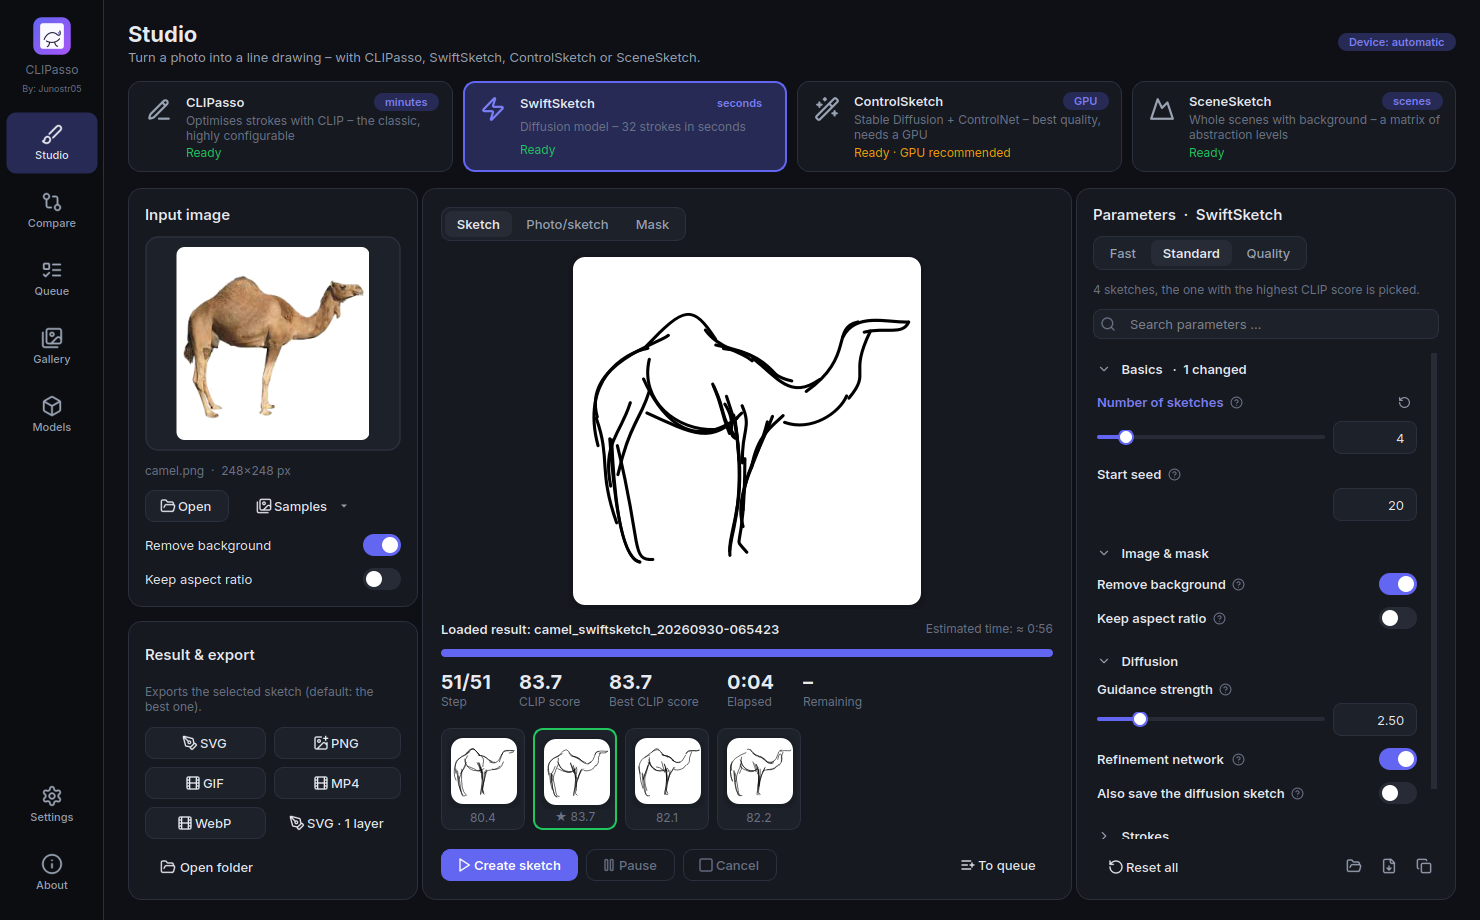
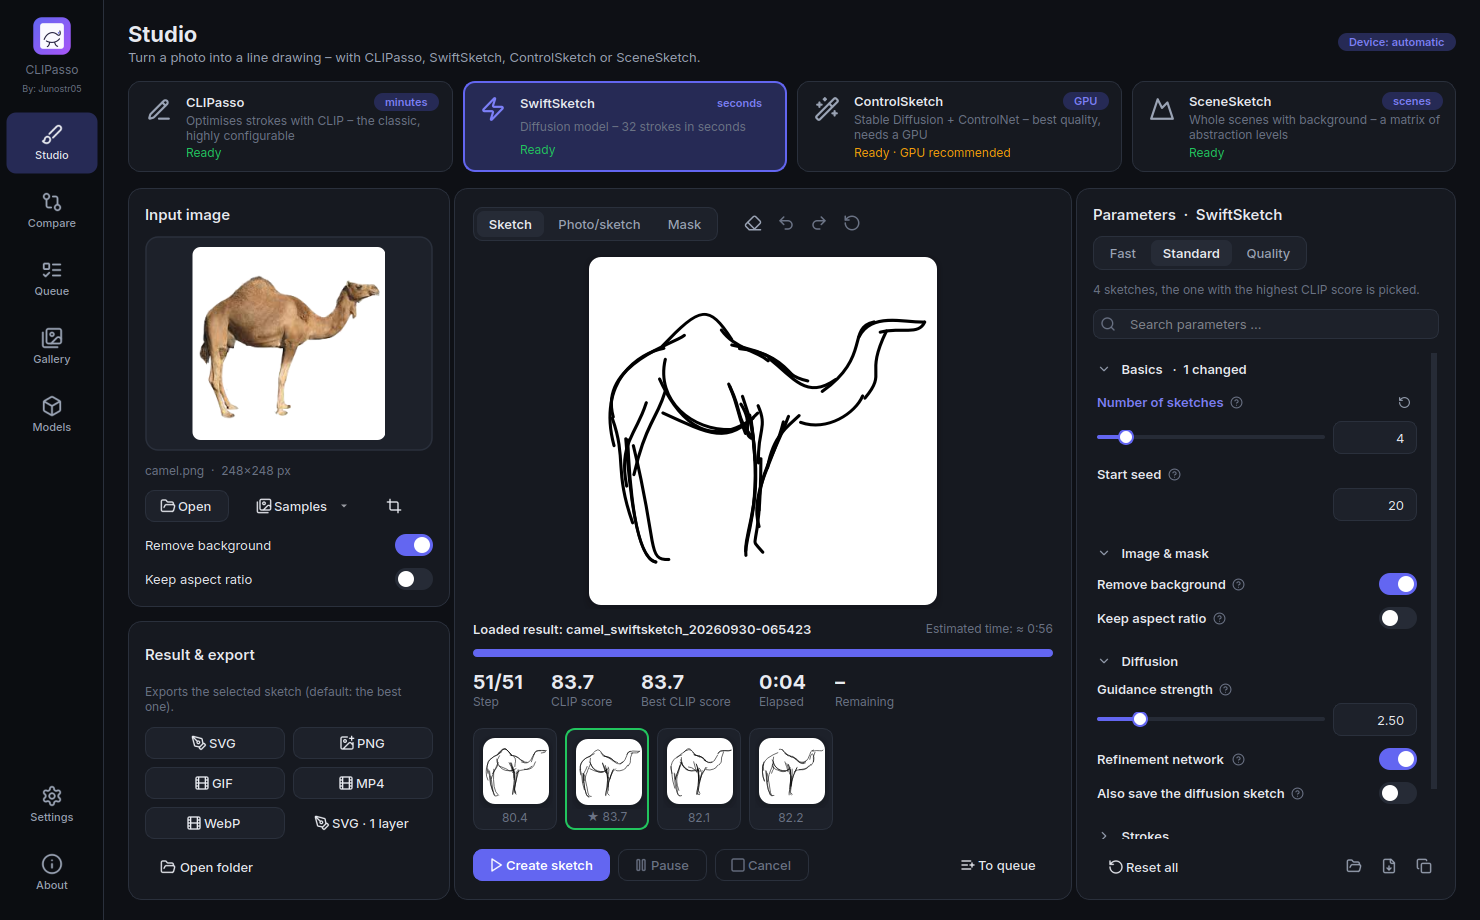
Release 2.3.0
Version 2.3.0, release notes, README features and screenshots. The studio's
left column now widens to fit its content plus the scroll bar (the Edit button
is icon-only), and the test fixtures undo their app-data environment so later
tests use the real model folders again.

Claude-Session: https://claude.ai/code/session_01S7pgJpBq7v1cwD5D27gajo

diff --git a/clipasso_studio/gui/pages/studio.py b/clipasso_studio/gui/pages/studio.py
@@ -8,7 +8,7 @@ import os
 import sys
 import time
 
-from PySide6.QtCore import QSize, Qt, QUrl, Signal
+from PySide6.QtCore import QSize, Qt, QTimer, QUrl, Signal
 from PySide6.QtGui import QDesktopServices, QGuiApplication, QImage, QPixmap
 from PySide6.QtWidgets import (QFileDialog, QFrame, QGridLayout, QHBoxLayout, QMenu, QMessageBox, QProgressBar,
                                QScrollArea, QSplitter, QVBoxLayout, QWidget)
@@ -178,6 +178,7 @@ class StudioPage(QWidget):
         left_scroll.setWidget(left)
         left_scroll.setMinimumWidth(260)
         left_scroll.setMaximumWidth(370)
+        self.left_pane, self.left_scroll = left, left_scroll
         splitter.addWidget(left_scroll)
 
         # ----------------------------------------------------------- center pane
@@ -1047,6 +1048,17 @@ class StudioPage(QWidget):
         self.folder_btn.setEnabled(bool(self.view_dir) or bool(app_settings().get("output_dir")))
         self.result_hint.setText(tr("ui.result_hint_ready") if has_result else tr("ui.result_hint_empty"))
 
+    def showEvent(self, e):  # noqa: N802
+        super().showEvent(e)
+        QTimer.singleShot(0, self._fit_left_column)  # sizes are known once the page is styled and shown
+
+    def _fit_left_column(self):
+        """The left column is at least as wide as its content plus a vertical scroll bar – otherwise
+        the scroll bar (the column is taller than small windows) cuts off its right edge."""
+        need = self.left_pane.minimumSizeHint().width() + self.left_scroll.verticalScrollBar().sizeHint().width() + 4
+        self.left_scroll.setMinimumWidth(max(260, need))
+        self.left_scroll.setMaximumWidth(max(370, need))
+
     def retranslate(self):
         self.eraser_btn.setToolTip(tr("ui.eraser.tip"))
         self.undo_btn.setToolTip(tr("ui.eraser.undo"))
@@ -1062,8 +1074,7 @@ class StudioPage(QWidget):
         self.drop.update()
         self.open_btn.setText(tr("ui.open"))
         self.samples_btn.setText(tr("ui.samples"))
-        self.edit_btn.setText(tr("ui.edit_image.button"))
-        self.edit_btn.setToolTip(tr("ui.edit_image.tip"))
+        self.edit_btn.setToolTip(tr("ui.edit_image.tip"))  # icon only: the row must fit the narrow column
         for key, (lbl, _) in self.quick.items():
             lbl.setText(tr(f"param.{key}.label"))
             lbl.setToolTip(tr(f"param.{key}.help"))
@@ -1085,6 +1096,7 @@ class StudioPage(QWidget):
         self.picker.retranslate()
         self.picker.refresh_status(self.params.all_settings())
         self._set_view_method(self.view_method)
+        self._fit_left_column()
         self.stat_time.caption.setText(tr("ui.stat.elapsed"))
         self.stat_eta.caption.setText(tr("ui.stat.eta"))
         self.cancel_btn.setText(tr("ui.cancel"))

diff --git a/tests/test_dialogs.py b/tests/test_dialogs.py
@@ -15,8 +15,9 @@ SVG = ('<svg xmlns="http://www.w3.org/2000/svg" width="224" height="224" viewBox
 @pytest.fixture(scope="module")
 def qapp(tmp_path_factory):
     tmp = tmp_path_factory.mktemp("appdata")
-    os.environ["XDG_DATA_HOME"] = str(tmp)
-    os.environ["LOCALAPPDATA"] = str(tmp)
+    env = pytest.MonkeyPatch()  # undone after the module: later tests use the real model folders
+    env.setenv("XDG_DATA_HOME", str(tmp))
+    env.setenv("LOCALAPPDATA", str(tmp))
     from PySide6.QtWidgets import QApplication
 
     app = QApplication.instance() or QApplication([])
@@ -24,6 +25,7 @@ def qapp(tmp_path_factory):
     from clipasso_studio.gui import dialogs
 
     dialogs.wait_for_threads()
+    env.undo()
 
 
 def _wait(app, condition, timeout=30.0):

diff --git a/tests/test_batch.py b/tests/test_batch.py
@@ -15,8 +15,9 @@ SVG = ('<svg xmlns="http://www.w3.org/2000/svg" width="224" height="224" viewBox
 @pytest.fixture(scope="module")
 def window(tmp_path_factory):
     tmp = tmp_path_factory.mktemp("appdata")
-    os.environ["XDG_DATA_HOME"] = str(tmp)
-    os.environ["LOCALAPPDATA"] = str(tmp)
+    env = pytest.MonkeyPatch()  # undone after the module: later tests use the real model folders
+    env.setenv("XDG_DATA_HOME", str(tmp))
+    env.setenv("LOCALAPPDATA", str(tmp))
     from PySide6.QtWidgets import QApplication
 
     app = QApplication.instance() or QApplication([])
@@ -35,6 +36,7 @@ def window(tmp_path_factory):
     yield w
     w.controller.shutdown()
     w.close()
+    env.undo()
 
 
 def _job(out, name, method="swiftsketch", edited=False):

diff --git a/tests/test_image_edit.py b/tests/test_image_edit.py
@@ -10,8 +10,9 @@ os.environ.setdefault("QT_QPA_PLATFORM", "offscreen")
 @pytest.fixture(scope="module")
 def qapp(tmp_path_factory):
     tmp = tmp_path_factory.mktemp("appdata")
-    os.environ["XDG_DATA_HOME"] = str(tmp)
-    os.environ["LOCALAPPDATA"] = str(tmp)
+    env = pytest.MonkeyPatch()  # undone after the module: later tests use the real model folders
+    env.setenv("XDG_DATA_HOME", str(tmp))
+    env.setenv("LOCALAPPDATA", str(tmp))
     from PySide6.QtWidgets import QApplication
 
     app = QApplication.instance() or QApplication([])
@@ -20,7 +21,8 @@ def qapp(tmp_path_factory):
 
     settings_module._instance = None
     app_settings().data["output_dir"] = str(tmp / "out")
-    return app
+    yield app
+    env.undo()
 
 
 @pytest.fixture

diff --git a/tests/test_strokes.py b/tests/test_strokes.py
@@ -46,8 +46,9 @@ def test_sketch_file_prefers_the_edited_sketch(tmp_path):
 @pytest.fixture(scope="module")
 def studio_window(tmp_path_factory):
     tmp = tmp_path_factory.mktemp("appdata")
-    os.environ["XDG_DATA_HOME"] = str(tmp)
-    os.environ["LOCALAPPDATA"] = str(tmp)
+    env = pytest.MonkeyPatch()  # undone after the module: later tests use the real model folders
+    env.setenv("XDG_DATA_HOME", str(tmp))
+    env.setenv("LOCALAPPDATA", str(tmp))
     from PySide6.QtWidgets import QApplication
 
     app = QApplication.instance() or QApplication([])
@@ -67,6 +68,7 @@ def studio_window(tmp_path_factory):
     yield w
     w.controller.shutdown()
     w.close()
+    env.undo()
 
 
 def test_eraser_in_the_studio(studio_window, tmp_path):

diff --git a/tests/test_gui.py b/tests/test_gui.py
@@ -8,8 +8,9 @@ os.environ.setdefault("QT_QPA_PLATFORM", "offscreen")
 @pytest.fixture(scope="module")
 def window(tmp_path_factory):
     tmp = tmp_path_factory.mktemp("appdata")
-    os.environ["XDG_DATA_HOME"] = str(tmp)
-    os.environ["LOCALAPPDATA"] = str(tmp)
+    env = pytest.MonkeyPatch()  # undone after the module: later tests use the real model folders
+    env.setenv("XDG_DATA_HOME", str(tmp))
+    env.setenv("LOCALAPPDATA", str(tmp))
     from PySide6.QtWidgets import QApplication
 
     app = QApplication.instance() or QApplication([])
@@ -29,6 +30,7 @@ def window(tmp_path_factory):
     yield w
     w.controller.shutdown()
     w.close()
+    env.undo()
 
 
 def test_every_parameter_has_a_field(window):

diff --git a/tools/screenshots.py b/tools/screenshots.py
@@ -4,7 +4,8 @@ Usage: python tools/screenshots.py OUT_DIR [--job JOB_DIR ...] [--theme dark|lig
                                    [--pages studio,studio:swiftsketch,compare,...]
 
 ``studio:<method>`` shows the studio with that method selected (and the given job of that method,
-if any); ``studio:<method>:<view>`` also picks the canvas view (e.g. ``studio:scenesketch:matrix``). All jobs must be in the same output folder, which the gallery / compare pages then show.
+if any); ``studio:<method>:<view>`` also picks the canvas view (e.g. ``studio:scenesketch:matrix``).
+All jobs must be in the same output folder, which the gallery / compare pages then show.
 """
 
 from __future__ import annotations

diff --git a/tests/test_brush.py b/tests/test_brush.py
@@ -99,6 +99,7 @@ def test_styles_in_every_export(qapp, tmp_path, style):
     export.export_animation(str(run), str(tmp_path / "a.gif"), size=96, length=1.0, style=style)
     assert (tmp_path / "a.gif").stat().st_size > 0
     (tmp_path / "job").mkdir()
-    (tmp_path / "job" / "job.json").write_text(json.dumps({"runs": [{"seed": 800, "best_svg": str(run / "best_iter.svg")}]}))
+    runs = [{"seed": 800, "best_svg": str(run / "best_iter.svg")}]
+    (tmp_path / "job" / "job.json").write_text(json.dumps({"runs": runs}))
     export.export_matrix_zip(str(tmp_path / "job"), str(tmp_path / "m.zip"), size=64, style=style)
     assert (tmp_path / "m.zip").stat().st_size > 0

diff --git a/clipasso_studio/__init__.py b/clipasso_studio/__init__.py
@@ -1,5 +1,5 @@
 """CLIPasso Studio – desktop app for vector sketching from photos (CLIPasso, SwiftSketch, ControlSketch)."""
 
-__version__ = "2.2.0"
+__version__ = "2.3.0"
 APP_NAME = "CLIPasso Studio"
 APP_ID = "CLIPassoStudio"

diff --git a/README.md b/README.md
@@ -80,12 +80,14 @@ Pick the method at the top of the studio with one click. Parameters, presets, ti
   - Checked by a test (`tests/test_settings.py`): every original argument has a setting with the same default value.
 - **Live preview** for all methods: you watch the sketch being drawn (for SwiftSketch every denoising step). Plus a photo/sketch slider, the attention map with the stroke start points, the mask, the ControlNet condition image for ControlSketch, a loss or CLIP score curve, the remaining time and thumbnails of all seeds. **Several sketches per image – the best one is picked automatically** (CLIPasso: lowest loss; SwiftSketch and ControlSketch: highest CLIP score).
 - **Presets** (Fast / Standard / Quality) per method, import/export of the settings as JSON, “copy command line”.
-- **Export**: SVG (stroke colour, width, background), **SVG · 1 layer** (all strokes as one path in a single layer – for plotters, cutting machines such as Cricut or Silhouette, and laser software), PNG at any resolution, **GIF / MP4 / animated WebP of the drawing process** – you set how long the drawing takes and the frame rate follows (for SwiftSketch: how the strokes emerge from noise). SceneSketch: the **whole matrix** as one ZIP (every sketch as SVG and PNG plus an overview sheet). Abstraction series with one click (CLIPasso, ControlSketch).
-- **Queue** for many images, also with mixed methods, with pause/cancel, a notification when done and protection against sleep mode.
+- **Touch-ups**: crop, rotate or flip the input image right in the studio; remove single strokes from a finished sketch with the **eraser** (with undo – the original stays).
+- **Export**: SVG (stroke colour, width, background, **brush style**: plain, ink, pencil or marker), **SVG · 1 layer** (all strokes as one path in a single layer – for plotters, cutting machines such as Cricut or Silhouette, and laser software), PNG at any resolution, **GIF / MP4 / animated WebP of the drawing process** – you set how long the drawing takes and the frame rate follows (for SwiftSketch: how the strokes emerge from noise). SceneSketch: the **whole matrix** as one ZIP (every sketch as SVG and PNG plus an overview sheet). Abstraction series with one click (CLIPasso, ControlSketch).
+- **Queue** for many images (also a whole folder at once), also with mixed methods, with pause/cancel, a notification when done and protection against sleep mode. **Export all** results of the queue – or all results the gallery shows – in one go.
+- **Continue interrupted jobs**: long runs save checkpoints; if the app or the PC closes (or you cancel), *Continue* picks up where it stopped – finished sketches are kept.
 - **Gallery** of all results: click one to continue working on it in the studio – with its image and settings (every job keeps a copy of its input image, so this works even after the original was moved or deleted). Favourites, sorting, search, method filter, “Show folder” and delete (to the recycle bin).
 - **Models** page grouped by method: download with progress, delete, manual import of the SwiftSketch weights (in case Google Drive hits its daily quota). Interrupted downloads continue where they stopped.
 - **Dark/light theme**, **English/German** interface (follows the Windows language, switchable at runtime), keyboard shortcuts (Ctrl+V pastes an image, Ctrl+Enter starts), and a command-line mode that is compatible with the original arguments of all four methods.
-- **Update notice** when a new version is out (can be switched off) and a **crash log**: unexpected errors are shown and saved in a log file that you can attach to a bug report.
+- **Updates with one click** (download, checksum check, install – can be switched off), adjustable **interface size** (90–150 %) and a **crash log**: unexpected errors are shown and saved in a log file that you can attach to a bug report.
 
 <p>
   <img src="docs/screenshots/studio_scenesketch_dark_en.png" width="49%" alt="SceneSketch's matrix view in the studio">
@@ -129,7 +131,7 @@ In CLI mode, missing models are downloaded automatically (`--no_download` preven
 - By default the stroke initialisation uses **CLIP attention** (bundled) instead of SDXL cross-attention; SDXL (≈ 7 GB) can be selected as soon as an object name is given.
 - Automatic captions with **BLIP** (0.9 GB) instead of BLIP-2 OPT-2.7b (15 GB); entering your own prompt skips this.
 - Condition images without OpenCV/controlnet_aux: depth with MiDaS DPT-Hybrid (the same network), Canny as a NumPy port of `cv2.Canny` (compared with OpenCV in a test), HED as a port of the Apache-2.0 network, segmentation with UperNet. **Normals** are computed from the depth as described in the ControlNet 1.0 model card (the original uses NormalBae + ControlNet 1.1).
-- U²-Net instead of RMBG-1.4, K-means in NumPy instead of scikit-learn, the PyTorch renderer instead of diffvg; there is no `lr_scheduler` option because the original never uses it.
+- U²-Net instead of RMBG-1.4 – and the background removal can be switched off (the original always sketches the object only), K-means in NumPy instead of scikit-learn, the PyTorch renderer instead of diffvg; there is no `lr_scheduler` option because the original never uses it.
 
 **SceneSketch** – ported from the MIT-licensed original code (painter with the stroke and width MLPs, loss with gradient-norm balancing, the fidelity and simplification scripts, the matrix combination). Differences from the original:
 - The PyTorch renderer instead of diffvg; the ViT is only evaluated up to the deepest layer the loss needs (same values, faster for shallow layers).

diff --git a/packaging/release_notes.md b/packaging/release_notes.md
@@ -1,22 +1,20 @@
-## CLIPasso Studio 2.2 – no more freezes, a better gallery and export
+## CLIPasso Studio 2.3 – continue where it stopped, touch up, export in style
 
-**Fixed: the app froze and crashed at the end of an export or a model download.** The file was complete, the progress bar full – and then the app hung and closed. Two bugs in the background work were behind it (the finished work was handed back to the interface from the wrong thread, and cleaning up after one export could crash the next one); both are fixed. The last step is now visible as well: “Encoding the GIF …” / “Checking and preparing …” instead of a full bar that seems stuck, and *Cancel* works during exports and downloads.
+**Continue interrupted jobs.** A long run – SceneSketch “Standard” takes about 2 hours on a CPU, ControlSketch hours – no longer starts from zero when the app or the PC is closed, the app crashes or you cancel: the running sketch saves a checkpoint every 30 seconds, finished sketches are kept, and **Continue** (in the gallery, in the studio, or when the app starts) picks up exactly where it stopped.
 
-**Gallery**
-- Click a result to **continue working on it** in the studio – with its image and all settings. Every job now keeps a copy of its input image, so this also works after the original file was moved or deleted.
-- **Delete** results (to the recycle bin), **Show folder**, **favourites** (★) with a favourites filter, sorting by date or best CLIP score, search by image name and method. Right-click a card for the same actions.
+**Touch-ups**
+- **Eraser** in the sketch view: click or drag over strokes to remove them (the stroke under the cursor turns red), with undo / redo (Ctrl+Z / Ctrl+Y). The original sketch stays; exports and the gallery use the touched-up one.
+- **Crop, rotate, flip** the input image (“Edit” next to Open): free, square, 4:3 or 3:4 – saved as a copy, the original file is not changed.
+- **ControlSketch: “Remove background” can be switched off** to sketch the whole picture (like the original, it is on by default).
 
 **Export**
-- GIF, MP4 and the new **animated WebP**: set **how long the drawing takes** (and how long the finished sketch stays) – the frame rate adapts.
-- **GIFs about 2× smaller and 3× faster** to create (a small palette made for line drawings).
-- **Animated WebP**: smaller than GIF, with a transparent background if you like.
-- SceneSketch: **export the whole matrix** as one ZIP – every sketch as SVG and PNG plus an overview sheet.
+- **Brush styles**: plain lines, **ink** (tapered brush-pen strokes), **pencil** (soft graphite lines) or **marker** – for SVG, PNG, the animations and the SceneSketch matrix.
+- **Folder import**: add a whole folder of images to the queue.
+- **Export many at once**: all finished results of the queue, or everything the gallery shows (e.g. your favourites) – SVG, SVG · 1 layer or PNG into one folder.
 
-**Also new**
-- **Keyboard shortcuts**: Ctrl+V pastes an image from the clipboard, Ctrl+O opens one, Ctrl+Enter starts, Ctrl+Shift+Enter adds to the queue, Ctrl+E exports the SVG, Ctrl+1 … 7 switch pages (list on the About page).
-- **Interrupted model downloads continue** where they stopped (also after closing the app); a dropped connection is resumed automatically.
-- **Update notice** when a new version is available (Settings → switch off).
-- **Crash log**: an unexpected error is shown and saved to a log file (Settings → *Open log folder*); after a hard crash the next start tells you where the log is. Please attach it when you report a problem.
+**App**
+- **Updates with one click**: *Install* in the update notice downloads the new version, checks it and installs it (installed app: it restarts by itself; portable: the new exe is saved next to the old one).
+- **Interface size** 90–150 % (Settings → Appearance), for small laptop screens or large monitors.
 
 | File | For whom? |
 |---|---|
@@ -27,6 +25,6 @@
 **Notes**
 - Windows SmartScreen may warn on the first start (“Unknown publisher”) → *More info* → *Run anyway*.
 - CPU times: SwiftSketch ~5 s per sketch; CLIPasso “Fast” 5–15 min; SceneSketch “Fast” ≈ 20 min, “Standard” ≈ 2 h; ControlSketch several hours (GPU: a few minutes).
-- Updating: the installer versions install over the old version; downloaded models and settings are kept.
+- Updating: the installer versions install over the old version; downloaded models and settings are kept. One-click updates start with this version – 2.3 itself is downloaded once more by hand.
 - Licence: CC BY-NC-SA 4.0 – **non-commercial use only**. The downloaded models have their own licences (see THIRD_PARTY_NOTICES.md).
 - Checksums: `SHA256SUMS-CPU.txt` and `SHA256SUMS-GPU.txt`.
